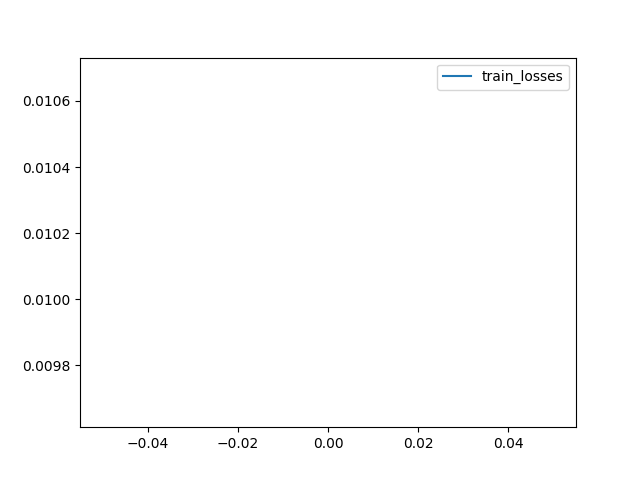
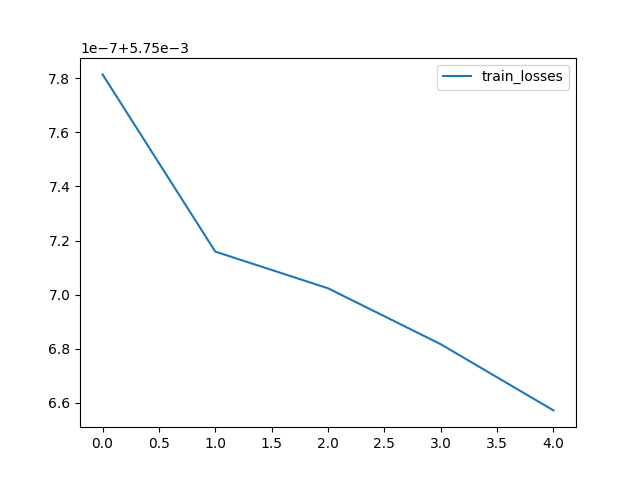
randomly select 10 boards to train

diff --git a/Trainer.py b/Trainer.py
@@ -49,7 +49,7 @@ class Trainer:
 
         self.optimizer = torch.optim.Adam(self.pre.parameters(), lr=config["lr"])
 
-        self.criterion = nn.CrossEntropyLoss()
+        self.criterion = nn.MSELoss()
 
         self.clip_value = config["clip_value"]
 
@@ -101,11 +101,11 @@ class Trainer:
                 #         )
                 #         total_predictions += len(current_label)
             
-        val_losses.append(total_loss / len(self.val_loader))
-        val_accs.append(total_correct / len(self.val_loader))
+        val_losses.append(total_loss / len(self.val_loader) / self.config["batch_size"])
+        val_accs.append(total_correct / len(self.val_loader) / self.config["batch_size"])
 
-        print(f"Validation accuracy: {total_correct / len(self.val_loader)}")
-        print(f"Validation loss: {total_loss / len(self.val_loader)}")
+        print(f"Validation accuracy: {total_correct / len(self.val_loader) / self.config['batch_size']}")
+        print(f"Validation loss: {total_loss / len(self.val_loader) / self.config['batch_size']}")
         
         if total_loss / len(self.val_loader) < self.best_val_loss:
             self.best_val_loss = total_loss / len(self.val_loader)
@@ -130,10 +130,12 @@ class Trainer:
             output = self.pre(data, color, torch.ones(len(data), dtype=torch.float32).to(self.config["device"]) * data.shape[1])
 
             loss = self.criterion(output, label)
+            total_loss += loss.item()
             
             loss.backward()
+
+            self.optimizer.step()
             
-            total_loss += loss.item()
 
             # for j in range(0, max_len.max()):
             #     # Check if any data point in the batch has reached its max_len
@@ -165,9 +167,9 @@ class Trainer:
 
             #         total_loss += loss.item()
                 
-        train_losses.append(total_loss / len(self.train_loader))
+        train_losses.append(total_loss / len(self.train_loader) / self.config["batch_size"])
         
-        print(f"Training loss: {total_loss / len(self.train_loader)}")
+        print(f"Training loss: {total_loss / len(self.train_loader) / self.config['batch_size']}")
 
 
     def run(self):

diff --git a/main.py b/main.py
@@ -47,9 +47,9 @@ config = {
     "batch_size": 1024,
     "clip_value": 5,
     "data_len": data_len,
-    "epochs": 30,
-    "early_stop": 10,
-    "selected": 0
+    "epochs": 100,
+    "early_stop": 20,
+    "selected": 1
 }
 
 train_len = int(0.9 * len(goDataset))
